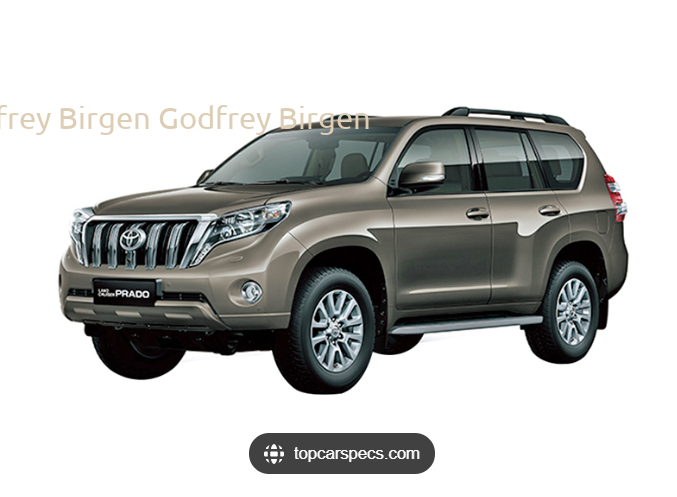
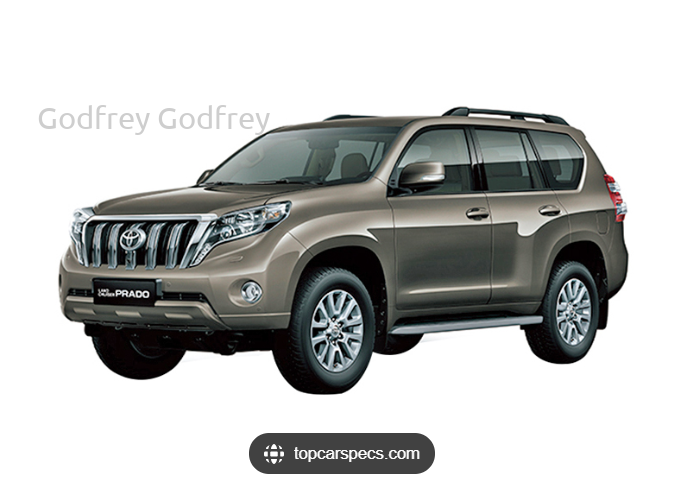
changed font color

Changed region(s): [[0.0, 0.2113, 0.5583, 0.2716]]

diff --git a/app/Http/Controllers/sellController.php b/app/Http/Controllers/sellController.php
@@ -71,7 +71,7 @@ class sellController extends Controller
                 $img->text(' '.$request->firstname.' '.$request->lastname, 150, 120, function($font) {  
                     $font->file(public_path('assets/fonts/font.ttf'));  
                     $font->size(30);  
-                    $font->color('#DCCDB4');  
+                    $font->color('#CECECE');  
                     $font->align('center');  
                     $font->valign('center');  
                     $font->angle(0);  
